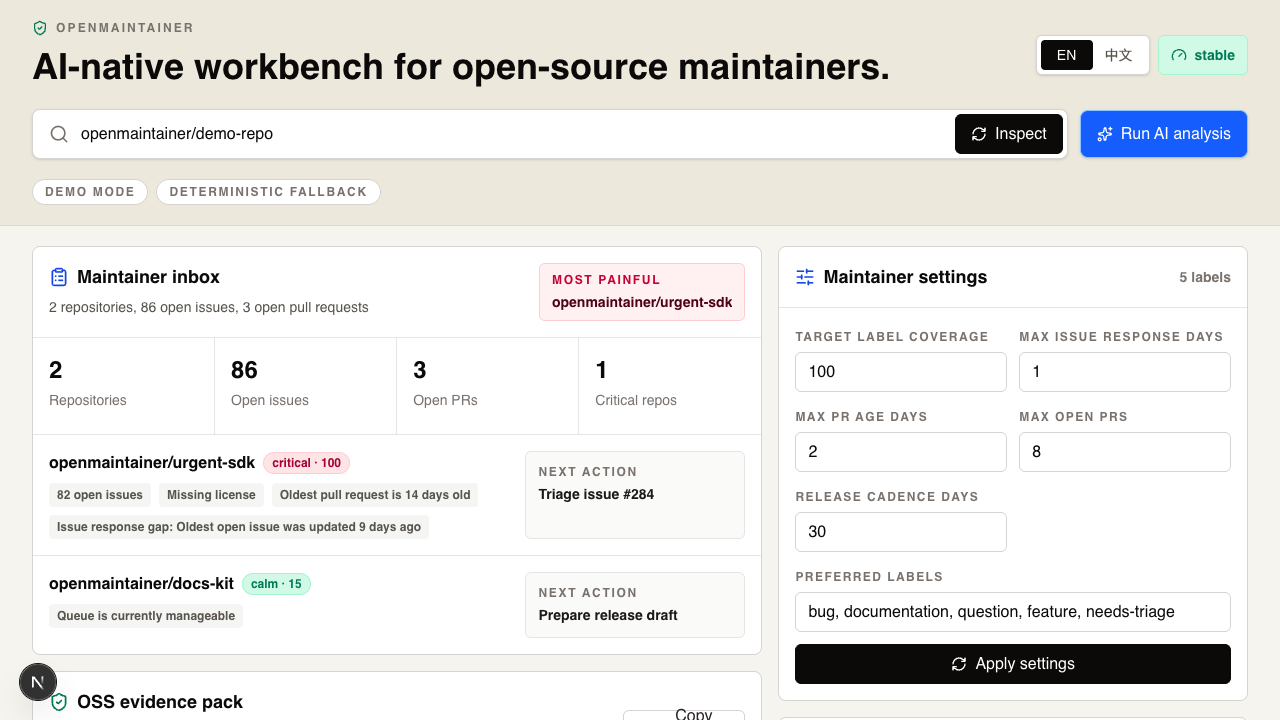
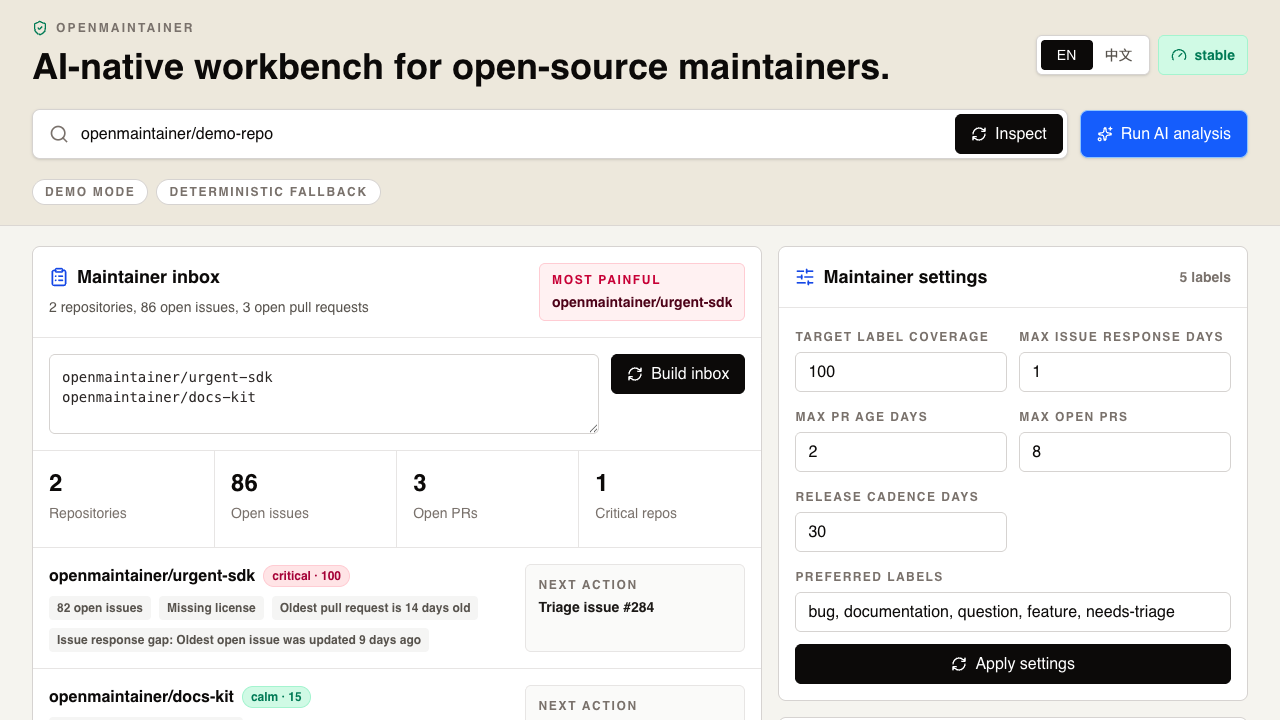
feat: add live maintainer inbox builder

diff --git a/src/components/dashboard.tsx b/src/components/dashboard.tsx
@@ -51,6 +51,16 @@ type AnalyzeResponse = {
   warning?: string;
 };
 
+type InboxResponse = {
+  inbox: MaintainerInbox;
+  repositories: Array<{
+    requestedRepository: string;
+    repository: string;
+    source: "demo" | "github";
+    warning?: string;
+  }>;
+};
+
 type DashboardProps = {
   initialRepository: MaintainerRepository;
   initialAnalysis: MaintainerAnalysis;
@@ -66,6 +76,8 @@ const copy = {
   en: {
     queue: "Maintenance queue",
     inbox: "Maintainer inbox",
+    buildInbox: "Build inbox",
+    portfolioPlaceholder: "owner/repo, openai/openai-cookbook, vercel/next.js",
     mostPainful: "Most painful",
     impact: "Contributor impact",
     evidence: "OSS evidence pack",
@@ -109,6 +121,8 @@ const copy = {
   zh: {
     queue: "维护队列",
     inbox: "维护者收件箱",
+    buildInbox: "生成收件箱",
+    portfolioPlaceholder: "owner/repo, openai/openai-cookbook, vercel/next.js",
     mostPainful: "最痛仓库",
     impact: "贡献者影响",
     evidence: "开源申请证据包",
@@ -231,12 +245,17 @@ export function Dashboard({
 }: DashboardProps) {
   const [repository, setRepository] = useState(initialRepository);
   const [analysis, setAnalysis] = useState(initialAnalysis);
+  const [inbox, setInbox] = useState(initialInbox);
+  const [portfolioInput, setPortfolioInput] = useState(
+    initialInbox.items.map((item) => item.repository).join("\n"),
+  );
   const [repoInput, setRepoInput] = useState(initialRepository.identity.fullName);
   const [source, setSource] = useState(initialSource);
   const [provider, setProvider] = useState<AnalyzeResponse["provider"]>("deterministic");
   const [warning, setWarning] = useState<string | null>(null);
   const [loadingRepo, setLoadingRepo] = useState(false);
   const [loadingAi, setLoadingAi] = useState(false);
+  const [loadingInbox, setLoadingInbox] = useState(false);
   const [loadingSettings, setLoadingSettings] = useState(false);
   const [copiedRelease, setCopiedRelease] = useState(false);
   const [copiedAction, setCopiedAction] = useState<string | null>(null);
@@ -278,7 +297,7 @@ export function Dashboard({
     [analysis.health.score, analysis.readiness.score, repository],
   );
 
-  const leadingInboxItem = initialInbox.items[0];
+  const leadingInboxItem = inbox.items[0];
 
   async function inspectRepository(event: FormEvent<HTMLFormElement>) {
     event.preventDefault();
@@ -378,6 +397,35 @@ export function Dashboard({
       setWarning(error instanceof Error ? error.message : "Unable to run analysis");
     } finally {
       setLoadingAi(false);
+    }
+  }
+
+  async function buildPortfolioInbox() {
+    setLoadingInbox(true);
+    setWarning(null);
+
+    try {
+      const response = await fetch("/api/inbox", {
+        method: "POST",
+        headers: { "Content-Type": "application/json" },
+        body: JSON.stringify({
+          repos: portfolioInput,
+          settings: {
+            ...settings,
+            preferredLabels: labelsFromDraft(preferredLabelsDraft),
+          },
+        }),
+      });
+      const data = (await response.json()) as InboxResponse;
+      setInbox(data.inbox);
+      const warnings = data.repositories
+        .filter((item) => item.warning)
+        .map((item) => `${item.requestedRepository}: ${item.warning}`);
+      setWarning(warnings.length > 0 ? warnings.join("; ") : null);
+    } catch (error) {
+      setWarning(error instanceof Error ? error.message : "Unable to build maintainer inbox");
+    } finally {
+      setLoadingInbox(false);
     }
   }
 
@@ -556,7 +604,7 @@ export function Dashboard({
                   <ClipboardList className="size-5 text-blue-700" />
                   {text.inbox}
                 </h2>
-                <p className="mt-1 text-sm leading-6 text-stone-600">{initialInbox.summary}</p>
+                <p className="mt-1 text-sm leading-6 text-stone-600">{inbox.summary}</p>
               </div>
               {leadingInboxItem ? (
                 <div className="min-w-0 rounded-md border border-rose-200 bg-rose-50 px-3 py-2">
@@ -569,34 +617,51 @@ export function Dashboard({
                 </div>
               ) : null}
             </div>
+            <div className="grid gap-3 border-b border-stone-200 p-4 lg:grid-cols-[1fr_auto] lg:items-start">
+              <textarea
+                value={portfolioInput}
+                onChange={(event) => setPortfolioInput(event.target.value)}
+                className="min-h-20 w-full resize-y rounded-md border border-stone-300 bg-white p-3 font-mono text-sm text-stone-800 outline-none placeholder:text-stone-400"
+                placeholder={text.portfolioPlaceholder}
+              />
+              <button
+                onClick={buildPortfolioInbox}
+                disabled={loadingInbox}
+                className="inline-flex h-10 items-center justify-center gap-2 rounded-md bg-stone-950 px-4 text-sm font-semibold text-white transition hover:bg-stone-800 disabled:cursor-not-allowed disabled:opacity-60"
+                title={text.buildInbox}
+              >
+                {loadingInbox ? <Loader2 className="size-4 animate-spin" /> : <RefreshCw className="size-4" />}
+                {text.buildInbox}
+              </button>
+            </div>
             <div className="grid grid-cols-2 border-b border-stone-200 md:grid-cols-4">
               <div className="min-h-24 border-r border-stone-200 p-4">
                 <div className="text-2xl font-semibold text-stone-950">
-                  {initialInbox.totals.repositories}
+                  {inbox.totals.repositories}
                 </div>
                 <div className="mt-1 text-sm font-medium text-stone-500">Repositories</div>
               </div>
               <div className="min-h-24 border-r border-stone-200 p-4">
                 <div className="text-2xl font-semibold text-stone-950">
-                  {initialInbox.totals.openIssues}
+                  {inbox.totals.openIssues}
                 </div>
                 <div className="mt-1 text-sm font-medium text-stone-500">Open issues</div>
               </div>
               <div className="min-h-24 border-r border-stone-200 p-4">
                 <div className="text-2xl font-semibold text-stone-950">
-                  {initialInbox.totals.openPullRequests}
+                  {inbox.totals.openPullRequests}
                 </div>
                 <div className="mt-1 text-sm font-medium text-stone-500">Open PRs</div>
               </div>
               <div className="min-h-24 p-4">
                 <div className="text-2xl font-semibold text-stone-950">
-                  {initialInbox.totals.attentionRepositories}
+                  {inbox.totals.attentionRepositories}
                 </div>
                 <div className="mt-1 text-sm font-medium text-stone-500">Critical repos</div>
               </div>
             </div>
             <div className="divide-y divide-stone-200">
-              {initialInbox.items.map((item) => (
+              {inbox.items.map((item) => (
                 <article key={item.repository} className="grid gap-3 p-4 md:grid-cols-[1fr_220px]">
                   <div className="min-w-0">
                     <div className="flex flex-wrap items-center gap-2">

diff --git a/src/app/api/inbox/route.ts b/src/app/api/inbox/route.ts
@@ -1,0 +1,58 @@
+import { demoPortfolioRepositories } from "@/lib/demo-data";
+import { getRepositoryOrDemo } from "@/lib/github";
+import { parseInboxRepositoryInputs } from "@/lib/inbox-input";
+import { analyzeRepository } from "@/lib/maintainer-analysis";
+import { buildMaintainerInbox } from "@/lib/maintainer-inbox";
+import type { MaintainerSettings } from "@/lib/types";
+
+type InboxRequestBody = {
+  repos?: string[] | string;
+  settings?: Partial<MaintainerSettings>;
+};
+
+function defaultPortfolio() {
+  return demoPortfolioRepositories.map((repository) => ({
+    repository,
+    analysis: analyzeRepository(repository),
+    source: "demo" as const,
+  }));
+}
+
+export async function POST(request: Request) {
+  let body: InboxRequestBody = {};
+
+  try {
+    body = (await request.json()) as InboxRequestBody;
+  } catch {
+    body = {};
+  }
+
+  const input =
+    typeof body.repos === "string" ? body.repos : Array.isArray(body.repos) ? body.repos.join("\n") : "";
+  const repoInputs = parseInboxRepositoryInputs(input);
+  const sources =
+    repoInputs.length === 0
+      ? defaultPortfolio()
+      : await Promise.all(
+          repoInputs.map(async (repoInput) => {
+            const result = await getRepositoryOrDemo(repoInput);
+            return {
+              repository: result.repository,
+              analysis: analyzeRepository(result.repository, new Date(), undefined, body.settings),
+              source: result.source,
+              warning: result.warning,
+              requestedRepository: repoInput,
+            };
+          }),
+        );
+
+  return Response.json({
+    inbox: buildMaintainerInbox(sources),
+    repositories: sources.map((source) => ({
+      requestedRepository: "requestedRepository" in source ? source.requestedRepository : source.repository.identity.fullName,
+      repository: source.repository.identity.fullName,
+      source: source.source,
+      warning: "warning" in source ? source.warning : undefined,
+    })),
+  });
+}

diff --git a/src/lib/inbox-input.test.ts b/src/lib/inbox-input.test.ts
@@ -1,0 +1,28 @@
+import { describe, expect, it } from "vitest";
+import { parseInboxRepositoryInputs } from "./inbox-input";
+
+describe("parseInboxRepositoryInputs", () => {
+  it("normalizes multiline, comma-separated, and URL repository inputs", () => {
+    expect(
+      parseInboxRepositoryInputs(
+        "vercel/next.js, https://github.com/openai/openai-cookbook\nvercel/next.js\nfacebook/react",
+      ),
+    ).toEqual(["vercel/next.js", "openai/openai-cookbook", "facebook/react"]);
+  });
+
+  it("limits portfolios to six repositories for a fast maintainer inbox", () => {
+    expect(
+      parseInboxRepositoryInputs(
+        [
+          "owner/one",
+          "owner/two",
+          "owner/three",
+          "owner/four",
+          "owner/five",
+          "owner/six",
+          "owner/seven",
+        ].join("\n"),
+      ),
+    ).toHaveLength(6);
+  });
+});

diff --git a/src/lib/inbox-input.ts b/src/lib/inbox-input.ts
@@ -1,0 +1,19 @@
+import { parseRepositoryInput } from "./github";
+
+const MAX_INBOX_REPOSITORIES = 6;
+
+export function parseInboxRepositoryInputs(value: string, maxCount = MAX_INBOX_REPOSITORIES) {
+  const repositories = value
+    .split(/[\n,]+/)
+    .map((item) => item.trim())
+    .filter(Boolean)
+    .flatMap((item) => {
+      try {
+        return [parseRepositoryInput(item).fullName];
+      } catch {
+        return [];
+      }
+    });
+
+  return Array.from(new Set(repositories)).slice(0, maxCount);
+}

diff --git a/docs/architecture.md b/docs/architecture.md
@@ -12,7 +12,11 @@ OpenMaintainer is split into four layers.
 
 `src/app/api/analyze/route.ts` accepts repository data plus optional maintainer settings and returns either OpenAI-backed analysis or deterministic fallback analysis.
 
+`src/app/api/inbox/route.ts` accepts a pasted list of GitHub repositories and returns a multi-repository maintainer inbox. It uses demo portfolio data when no valid repositories are provided, so the workflow remains usable without credentials.
+
 ## 3. Core logic
+
+`src/lib/inbox-input.ts` normalizes multiline, comma-separated, and GitHub URL repository lists for the live inbox builder.
 
 `src/lib/maintainer-inbox.ts` ranks multiple repositories by maintainer pain using issue load, review age, readiness gaps, health score, and available next actions.
 

diff --git a/README.md b/README.md
@@ -31,6 +31,7 @@ OpenMaintainer makes that work visible in one cockpit. AI output is treated as a
 - Deterministic issue triage fallback
 - Optional OpenAI-powered structured analysis
 - Multi-repository maintainer inbox that ranks the most painful queues first
+- Live multi-repository inbox builder for pasted GitHub repository lists
 - Contributor impact queue that surfaces blocked developers and unblock steps
 - Codex for Open Source evidence pack with copyable application drafts
 - Pull request review summaries and risk indicators

diff --git a/ROADMAP.md b/ROADMAP.md
@@ -7,6 +7,7 @@
 - Deterministic issue triage
 - Optional OpenAI analysis
 - Multi-repository maintainer inbox
+- Live multi-repository inbox builder
 - Contributor impact queue for blocked developers
 - Codex for Open Source evidence pack
 - PR review summaries
